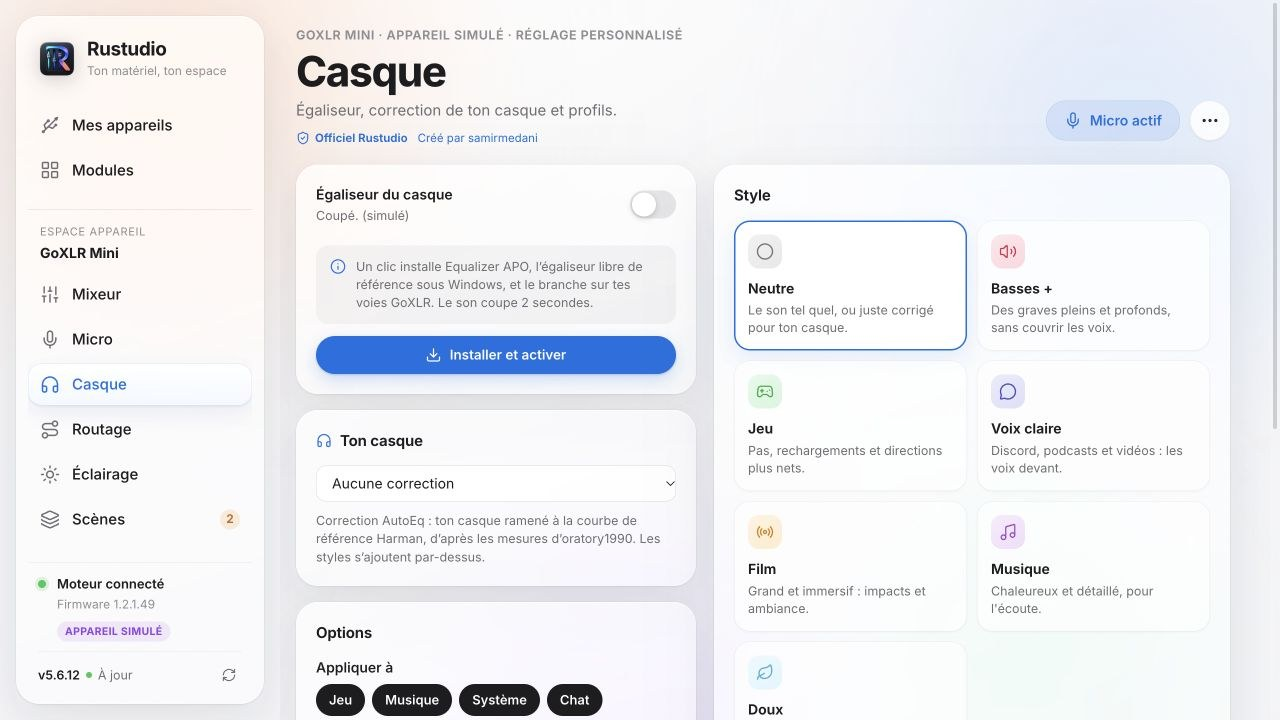
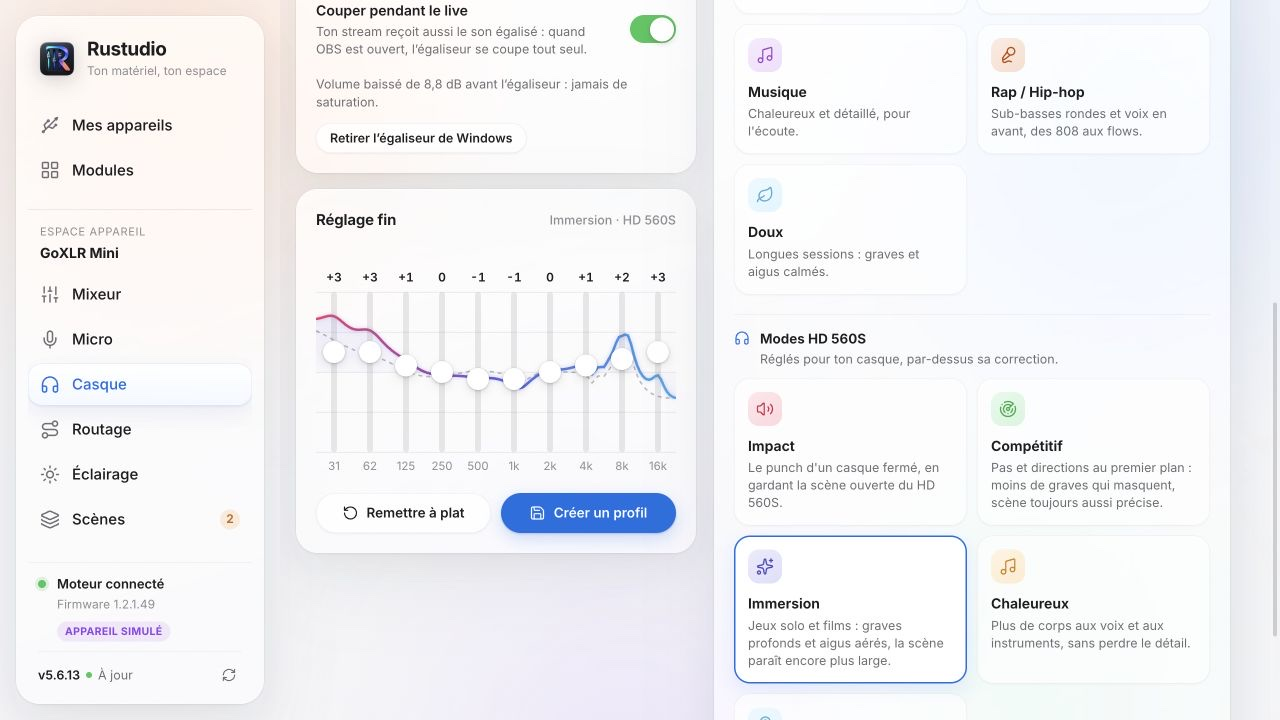
Rustudio 5.6.13 : styles Basses ++ et Rap, modes dédiés au HD 560S

diff --git a/ui/js/goxlr/casque.js b/ui/js/goxlr/casque.js
@@ -4,8 +4,10 @@
 /* ---------- casque (egaliseur Equalizer APO) ---------- */
 var hp = {};
 var HP_CH_LABELS = {Game: "Jeu", Music: "Musique", System: "Système", Chat: "Chat", Sample: "Samples"};
-var HP_STYLE_ICONS = {neutre: "circle", basses: "speaker", jeu: "Game", voix: "Chat", film: "BroadcastMix", musique: "Music", doux: "leaf"};
-var HP_STYLE_COLOURS = {neutre: "#8E8E93", basses: "#FF375F", jeu: "#30D158", voix: "#5E5CE6", film: "#FF9F0A", musique: "#BF5AF2", doux: "#64D2FF"};
+var HP_STYLE_ICONS = {neutre: "circle", basses: "speaker", basses_plus: "speaker", jeu: "Game", voix: "Chat", film: "BroadcastMix", musique: "Music", rap: "micVocal", doux: "leaf",
+  hd560s_impact: "speaker", hd560s_competitif: "radar", hd560s_immersion: "sparkles", hd560s_chaleur: "Music", hd560s_detente: "ear"};
+var HP_STYLE_COLOURS = {neutre: "#8E8E93", basses: "#FF375F", basses_plus: "#D70015", jeu: "#30D158", voix: "#5E5CE6", film: "#FF9F0A", musique: "#BF5AF2", rap: "#E8590C", doux: "#64D2FF",
+  hd560s_impact: "#FF375F", hd560s_competitif: "#30D158", hd560s_immersion: "#5E5CE6", hd560s_chaleur: "#FF9F0A", hd560s_detente: "#64D2FF"};
 function hpBiquad(kind, f0, g, q) {
   var fs = 48000, a = Math.pow(10, g / 40), w0 = 2 * Math.PI * Math.min(f0, fs * .49) / fs, cw = Math.cos(w0), al = Math.sin(w0) / (2 * q), s = 2 * Math.sqrt(a) * al;
   if (kind === "PK") return [1 + al * a, -2 * cw, 1 - al * a, 1 + al / a, -2 * cw, 1 - al / a];
@@ -110,9 +112,9 @@ function buildHp() {
   eqb.appendChild(bands); c5.appendChild(eqb);
   var row = h("div", {"class": "btn-row"});
   row.appendChild(h("button", {"class": "pill", onclick: function () { postModule("goxlr-mini", "hp-eq", {style: "neutre"}).then(refresh); }}, svg("reset") + "Remettre à plat"));
-  row.appendChild(h("button", {"class": "pill primary", onclick: hpSaveSheet}, svg("save") + "Enregistrer comme profil"));
+  row.appendChild(h("button", {"class": "pill primary", onclick: hpSaveSheet}, svg("save") + "Créer un profil"));
   c5.appendChild(row);
-  right.appendChild(c5);
+  left.appendChild(c5); /* sous les options : les styles, plus nombreux, ont toute la colonne de droite */
   grid.appendChild(right);
   root.appendChild(grid);
   built.hp = true;
@@ -138,7 +140,7 @@ function hpSaveSheet() {
   setTimeout(function () { inp.focus(); }, 50);
 }
 function renderHpStyles() {
-  var eq = S.state.hp_eq, key = JSON.stringify([Object.keys(eq.custom), eq.style]);
+  var eq = S.state.hp_eq, key = JSON.stringify([Object.keys(eq.custom), eq.style, eq.headphone]);
   if (hp.stylesKey === key) return;
   hp.stylesKey = key; hp.styles.innerHTML = "";
   function card(id, label, desc, icon, colour, removable) {
@@ -151,8 +153,23 @@ function renderHpStyles() {
     }
     hp.styles.appendChild(b);
   }
-  Object.keys(S.meta.hp_styles).forEach(function (k) { var s = S.meta.hp_styles[k]; card(k, s.label, s.desc, HP_STYLE_ICONS[k] || "circle", HP_STYLE_COLOURS[k] || "#8E8E93"); });
-  Object.keys(eq.custom).forEach(function (n) { card("custom:" + n, n, "Ton profil.", "save", "#0071E3", true); });
+  function styleCard(k) { var s = S.meta.hp_styles[k]; card(k, s.label, s.desc, HP_STYLE_ICONS[k] || "circle", HP_STYLE_COLOURS[k] || "#8E8E93"); }
+  var keys = Object.keys(S.meta.hp_styles);
+  keys.filter(function (k) { return !S.meta.hp_styles[k].headphone; }).forEach(styleCard);
+  /* modes penses pour le casque choisi, par-dessus sa correction */
+  var own = keys.filter(function (k) { return eq.headphone && S.meta.hp_styles[k].headphone === eq.headphone; });
+  if (own.length) {
+    group("Headphones", "Modes " + eq.headphone.replace(/^Sennheiser /, ""), "Réglés pour ton casque, par-dessus sa correction.");
+    own.forEach(styleCard);
+  }
+  var mine = Object.keys(eq.custom);
+  if (mine.length) {
+    group("save", "Tes profils", "Enregistrés depuis le réglage fin.");
+    mine.forEach(function (n) { card("custom:" + n, n, "Ton profil.", "save", "#0071E3", true); });
+  }
+  function group(icon, title, sub) {
+    hp.styles.appendChild(h("div", {"class": "presets-group"}, svg(icon) + "<span><b>" + esc(title) + "</b><small>" + esc(sub) + "</small></span>"));
+  }
 }
 function hpPreText() {
   var pre = hpPreamp(S.state.hp_eq), boost = pre < 0 ? -pre - .3 : 0, key = Math.round(boost * 10);
@@ -226,7 +243,9 @@ function renderHp() {
   renderHpStyles();
   S.meta.hp_bands.forEach(function (b, i) { var e = hp.bands[i], v = eq.bands[i]; e.sl.set(v); if (!e.sl.busy()) e.lab.textContent = (v > 0 ? "+" : "") + v; });
   var styleName = eq.style && S.meta.hp_styles[eq.style] ? S.meta.hp_styles[eq.style].label : eq.style && eq.style.indexOf("custom:") === 0 ? eq.style.slice(7) : "Réglage perso";
-  $("hp-fine-hint").textContent = styleName + (eq.headphone ? " · correction " + eq.headphone : "");
+  var hint = $("hp-fine-hint");
+  hint.textContent = styleName + (eq.headphone ? " · " + eq.headphone.replace(/^Sennheiser /, "") : "");
+  hint.title = styleName + (eq.headphone ? " · correction " + eq.headphone : "");
   $("hp-style-hint").textContent = eq.style ? "" : "Réglage perso";
   hpPreText();
   drawHp();

diff --git a/ui/app.css b/ui/app.css
@@ -174,7 +174,7 @@ header p{color:var(--text2);font-size:15px;margin-top:6px}
 @keyframes pagein{from{opacity:0;transform:translateY(6px)}to{opacity:1;transform:none}}
 .card{border-radius:var(--r);padding:20px}
 .card h3{font-size:15px;font-weight:650;letter-spacing:-.01em;display:flex;align-items:center;gap:8px;margin-bottom:14px}
-.card h3 small{color:var(--text3);font-weight:500;margin-left:auto;font-size:12.5px;letter-spacing:0}
+.card h3 small{color:var(--text3);font-weight:500;margin-left:auto;font-size:12.5px;letter-spacing:0;min-width:0;overflow:hidden;text-overflow:ellipsis;white-space:nowrap}
 .muted-txt{color:var(--text2)}
 .chip-ico{width:34px;height:34px;border-radius:11px;display:grid;place-items:center;flex:none;
   background:linear-gradient(145deg,color-mix(in srgb,var(--c) 12%,#fff),color-mix(in srgb,var(--c) 20%,#fff));color:color-mix(in srgb,var(--c) 82%,#000)}
@@ -289,12 +289,17 @@ header p{color:var(--text2);font-size:15px;margin-top:6px}
 .btn-row{display:flex;gap:10px;margin-top:18px}
 .btn-row .pill{flex:1;height:40px}
 .presets{display:grid;grid-template-columns:repeat(auto-fill,minmax(170px,1fr));gap:10px}
-.preset{position:relative;text-align:left;padding:14px;border-radius:16px;background:rgba(255,255,255,.6);box-shadow:inset 0 0 0 .5px rgba(0,0,0,.07),0 1px 2px rgba(0,0,0,.03);transition:background .2s,box-shadow .2s,transform .2s var(--ease)}
+.preset{position:relative;display:flex;flex-direction:column;align-items:flex-start;justify-content:flex-start;text-align:left;padding:14px;border-radius:16px;background:rgba(255,255,255,.6);box-shadow:inset 0 0 0 .5px rgba(0,0,0,.07),0 1px 2px rgba(0,0,0,.03);transition:background .2s,box-shadow .2s,transform .2s var(--ease)}
 .preset:hover{background:#fff;transform:translateY(-1px);box-shadow:inset 0 0 0 .5px rgba(0,0,0,.08),0 8px 22px rgba(17,24,39,.08)}
 .preset.on{background:#fff;box-shadow:inset 0 0 0 1.5px var(--accent),0 8px 22px rgba(0,113,227,.12)}
 .preset .chip-ico{width:34px;height:34px;margin-bottom:10px}
 .preset b{display:block;font-size:14px;font-weight:650}
 .preset p{color:var(--text2);font-size:12.5px;line-height:1.4;margin-top:3px}
+.presets-group{grid-column:1/-1;display:flex;align-items:flex-start;gap:10px;margin-top:10px;padding-top:14px;border-top:.5px solid rgba(0,0,0,.08)}
+.presets-group svg{flex:none;width:16px;height:16px;margin-top:1px;color:var(--accent)}
+.presets-group span{min-width:0}
+.presets-group b{display:block;font-size:13.5px;font-weight:650}
+.presets-group small{display:block;color:var(--text2);font-size:12.5px;line-height:1.4;margin-top:2px}
 .tag{position:absolute;top:12px;right:12px;font-size:10.5px;font-weight:700;height:20px;display:inline-flex;align-items:center;padding:0 8px;border-radius:999px;background:rgba(52,199,89,.14);color:#1e7e34;letter-spacing:.03em}
 .eq{position:relative;height:210px}
 .eq canvas{position:absolute;inset:0;width:100%;height:100%}

diff --git a/crates/core/src/hpeq.rs b/crates/core/src/hpeq.rs
@@ -16,15 +16,33 @@ pub struct Style {
     pub label: &'static str,
     pub desc: &'static str,
     pub bands: [i32; 10],
+    /// Mode pense pour un casque precis, par-dessus sa correction AutoEq ; l'interface ne le montre qu'avec ce casque.
+    pub headphone: Option<&'static str>,
 }
-pub const HP_STYLES: [Style; 7] = [
-    Style { key: "neutre", label: "Neutre", desc: "Le son tel quel, ou juste corrigé pour ton casque.", bands: [0; 10] },
-    Style { key: "basses", label: "Basses +", desc: "Des graves pleins et profonds, sans couvrir les voix.", bands: [4, 5, 3, 1, 0, 0, 0, 0, 0, 0] },
-    Style { key: "jeu", label: "Jeu", desc: "Pas, rechargements et directions plus nets.", bands: [-2, -1, -1, -1, 0, 1, 3, 3, 2, 0] },
-    Style { key: "voix", label: "Voix claire", desc: "Discord, podcasts et vidéos : les voix devant.", bands: [-4, -3, -1, 0, 1, 2, 3, 2, 0, -1] },
-    Style { key: "film", label: "Film", desc: "Grand et immersif : impacts et ambiance.", bands: [4, 4, 2, 0, -1, -1, 0, 2, 3, 3] },
-    Style { key: "musique", label: "Musique", desc: "Chaleureux et détaillé, pour l'écoute.", bands: [2, 3, 1, 0, -1, 0, 1, 1, 2, 2] },
-    Style { key: "doux", label: "Doux", desc: "Longues sessions : graves et aigus calmés.", bands: [-3, -2, -1, 0, 0, 1, 1, 0, -2, -3] },
+const fn any(key: &'static str, label: &'static str, desc: &'static str, bands: [i32; 10]) -> Style {
+    Style { key, label, desc, bands, headphone: None }
+}
+const HD_560S: &str = "Sennheiser HD 560S";
+const fn hd560s(key: &'static str, label: &'static str, desc: &'static str, bands: [i32; 10]) -> Style {
+    Style { key, label, desc, bands, headphone: Some(HD_560S) }
+}
+/// Styles a 10 bandes. Aucun ne monte la courbe totale au-dela de +12 dB avec les corrections connues (alerte de
+/// saturation de la page Casque) : les modes appuyes baissent un peu les mediums plutot que de pousser plus fort.
+pub const HP_STYLES: &[Style] = &[
+    any("neutre", "Neutre", "Le son tel quel, ou juste corrigé pour ton casque.", [0; 10]),
+    any("basses", "Basses +", "Des graves pleins et profonds, sans couvrir les voix.", [4, 5, 3, 1, 0, 0, 0, 0, 0, 0]),
+    any("basses_plus", "Basses ++", "Basses à fond, façon club : ça cogne. Les médiums reculent pour leur laisser la place.", [4, 6, 4, 1, -3, -4, -3, 0, 0, -1]),
+    any("jeu", "Jeu", "Pas, rechargements et directions plus nets.", [-2, -1, -1, -1, 0, 1, 3, 3, 2, 0]),
+    any("voix", "Voix claire", "Discord, podcasts et vidéos : les voix devant.", [-4, -3, -1, 0, 1, 2, 3, 2, 0, -1]),
+    any("film", "Film", "Grand et immersif : impacts et ambiance.", [4, 4, 2, 0, -1, -1, 0, 2, 3, 3]),
+    any("musique", "Musique", "Chaleureux et détaillé, pour l'écoute.", [2, 3, 1, 0, -1, 0, 1, 1, 2, 2]),
+    any("rap", "Rap / Hip-hop", "Sub-basses rondes et voix en avant, des 808 aux flows.", [4, 5, 2, 0, -2, -2, 1, 2, 1, 0]),
+    any("doux", "Doux", "Longues sessions : graves et aigus calmés.", [-3, -2, -1, 0, 0, 1, 1, 0, -2, -3]),
+    hd560s("hd560s_impact", "Impact", "Le punch d'un casque fermé, en gardant la scène ouverte du HD 560S.", [3, 5, 3, 1, 0, 0, 0, -1, 0, 0]),
+    hd560s("hd560s_competitif", "Compétitif", "Pas et directions au premier plan : moins de graves qui masquent, scène toujours aussi précise.", [-4, -3, -2, -1, 0, 1, 3, 4, 1, -1]),
+    hd560s("hd560s_immersion", "Immersion", "Jeux solo et films : graves profonds et aigus aérés, la scène paraît encore plus large.", [3, 3, 1, 0, -1, -1, 0, 1, 2, 3]),
+    hd560s("hd560s_chaleur", "Chaleureux", "Plus de corps aux voix et aux instruments, sans perdre le détail.", [2, 3, 3, 2, 0, -1, -1, -1, 0, 0]),
+    hd560s("hd560s_detente", "Détente", "Aigus adoucis, graves gardés : rien ne siffle ni ne fatigue, même après des heures.", [1, 1, 0, 0, 0, 0, -1, -2, -3, -2]),
 ];
 pub fn style(key: &str) -> Option<&'static Style> {
     HP_STYLES.iter().find(|s| s.key == key)

diff --git a/crates/core/tests/core.rs b/crates/core/tests/core.rs
@@ -1,6 +1,6 @@
 //! Tests du coeur (aucun appareil).
 use rustudio_core::dsp::{self, fit_dsp, gate_attenuation, Fx, RESIDUAL_NOISE_DB};
-use rustudio_core::hpeq::{config_text, hp_filters, normalize_hp_eq, style};
+use rustudio_core::hpeq::{config_text, hp_filters, normalize_hp_eq, style, HEADPHONES, HP_STYLES};
 use rustudio_core::release::{parse_release, Names};
 use rustudio_core::state::{self, normalize_cal, normalize_state, MicCal};
 use rustudio_core::{lighting, routing, semver};
@@ -168,4 +168,23 @@ fn fichier_equalizer_apo() {
     assert!(t.trim_end().ends_with("Device: all"));
     assert!(!config_text(&eq, false, "live").contains("Filter"));
     assert_eq!(style("basses").unwrap().bands[0], 4);
+}
+
+#[test]
+fn aucun_style_ne_declenche_l_alerte_de_saturation() {
+    // La page Casque previent au-dela de +12 dB de courbe totale (correction + style) : un mode tout pret ne doit
+    // jamais y arriver, avec chaque casque pour un style general, avec son casque pour un mode dedie.
+    for s in HP_STYLES {
+        let casques: Vec<Option<&str>> = match s.headphone {
+            Some(h) => vec![Some(h)],
+            None => std::iter::once(None).chain(HEADPHONES.iter().map(|(n, _)| Some(*n))).collect(),
+        };
+        for h in casques {
+            let eq = normalize_hp_eq(&json!({"headphone": h, "bands": s.bands}), None);
+            let boost = -hp_filters(&eq).1 - 0.3;
+            assert!(boost <= 12.0, "{} avec {:?} : +{boost:.1} dB", s.key, h);
+        }
+    }
+    assert!(HP_STYLES.iter().filter(|s| s.headphone == Some("Sennheiser HD 560S")).count() >= 5);
+    assert!(HP_STYLES.iter().filter_map(|s| s.headphone).all(|h| HEADPHONES.iter().any(|(n, _)| *n == h)));
 }

diff --git a/crates/engine/src/views.rs b/crates/engine/src/views.rs
@@ -113,7 +113,7 @@ pub fn meta(st: &rustudio_core::State, mix2: bool) -> Value {
         "eq_bands": EQ_BANDS.iter().map(|(k, _, _)| *k).collect::<Vec<_>>(), "ratios": RATIOS,
         "known_apps": KNOWN_APPS.iter().map(|(k, v)| (k.to_string(), json!(v))).collect::<Map<_, _>>(),
         "hp_bands": HP_BANDS, "hp_q": HP_Q, "hp_channels": HP_CHANNELS,
-        "hp_styles": HP_STYLES.iter().map(|s| (s.key.to_string(), json!({"label": s.label, "desc": s.desc, "bands": s.bands}))).collect::<Map<_, _>>(),
+        "hp_styles": HP_STYLES.iter().map(|s| (s.key.to_string(), json!({"label": s.label, "desc": s.desc, "bands": s.bands, "headphone": s.headphone}))).collect::<Map<_, _>>(),
         "headphones": HEADPHONES.iter().map(|(n, f)| (n.to_string(), json!(f.iter().map(|(k, f0, g, q)| json!([k, f0, g, q])).collect::<Vec<_>>()))).collect::<Map<_, _>>(),
         "device": {"id": device.id, "name": device.name, "vendor": device.vendor, "module": device.id, "official": true},
     })

diff --git a/CHANGELOG.md b/CHANGELOG.md
@@ -1,5 +1,12 @@
 # Nouveautés
 
+## 5.6.13
+
+- **Casque : deux nouveaux styles.** « Basses ++ » pousse les basses à fond, façon club (environ deux fois plus marqué que « Basses + ») ; « Rap / Hip-hop » donne des sub-basses rondes et garde les voix en avant.
+- **Modes dédiés au Sennheiser HD 560S.** Quand ce casque est choisi, la page Casque propose cinq modes réglés pour lui, par-dessus sa correction : Impact, Compétitif, Immersion, Chaleureux et Détente.
+- Aucun style tout prêt ne pousse la courbe au point de faire grésiller le casque, quelle que soit la correction choisie.
+- Page Casque réorganisée : le réglage fin passe sous les options, les styles ont toute la colonne de droite et tes profils leur propre rubrique (« Créer un profil »). Les cartes de styles et de préréglages du micro s’alignent en haut, même quand leurs descriptions n’ont pas la même longueur.
+
 ## 5.6.12
 
 - **Historique des versions.** Clique sur le numéro de version en bas à gauche, ou menu ⋯ › Historique des versions : les nouveautés de chaque version, les trois plus récentes dépliées. Hors ligne, les notes intégrées à ta version restent lisibles.

diff --git a/README.md b/README.md
@@ -89,8 +89,8 @@ session : la fenêtre, l’icône d’état, la bulle à l’écran et les péri
       <br><b>Routage</b> · qui entend quoi : toi, ton stream, Discord, la VOD, les enceintes.
     </td>
     <td width="50%" align="center">
-      <img src="docs/captures/casque.jpg" alt="Casque : correction du casque, styles et égaliseur 10 bandes">
-      <br><b>Casque</b> · correction de 21 casques (AutoEq) et styles sur 10 bandes, par Equalizer APO.
+      <img src="docs/captures/casque.jpg" alt="Casque : réglage fin sur 10 bandes, styles et modes dédiés au Sennheiser HD 560S">
+      <br><b>Casque</b> · correction de 21 casques (AutoEq), neuf styles dont Basses ++, et des modes dédiés au HD 560S.
     </td>
   </tr>
   <tr>
